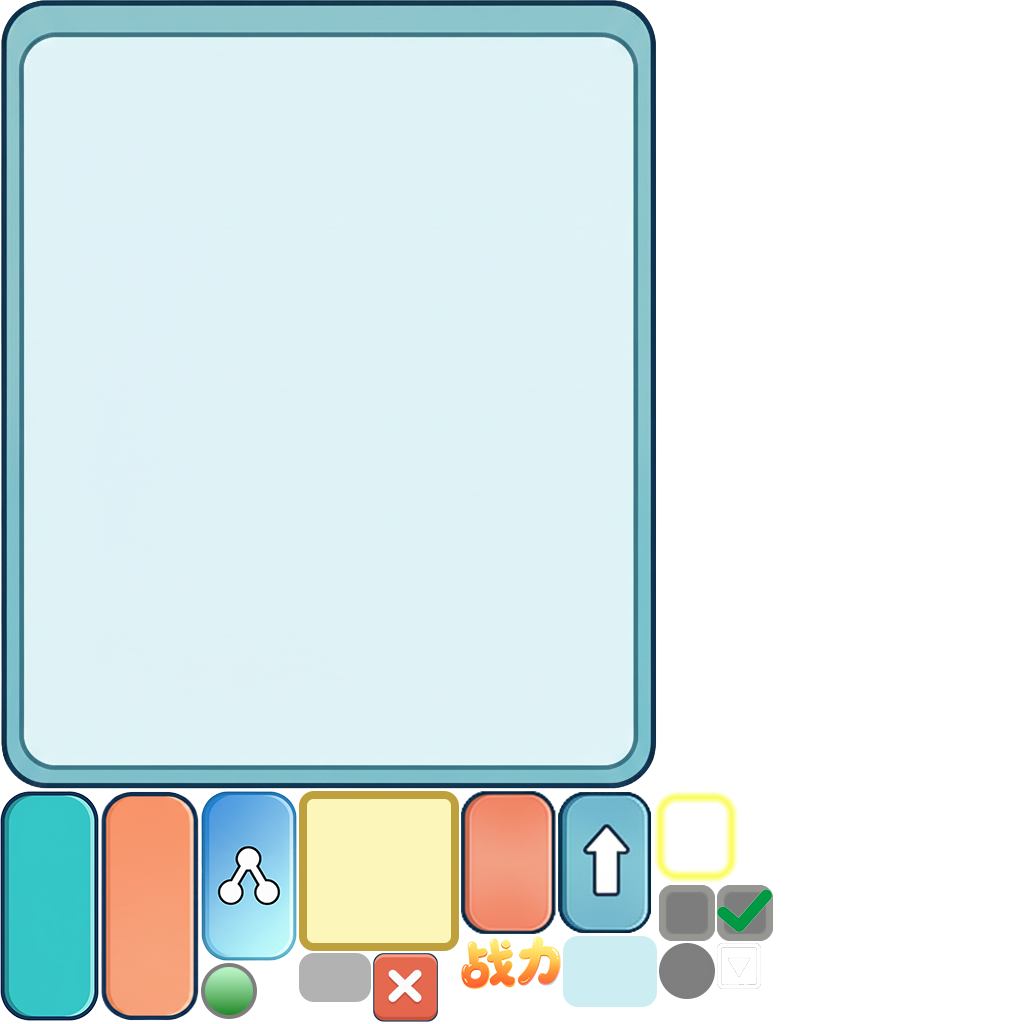
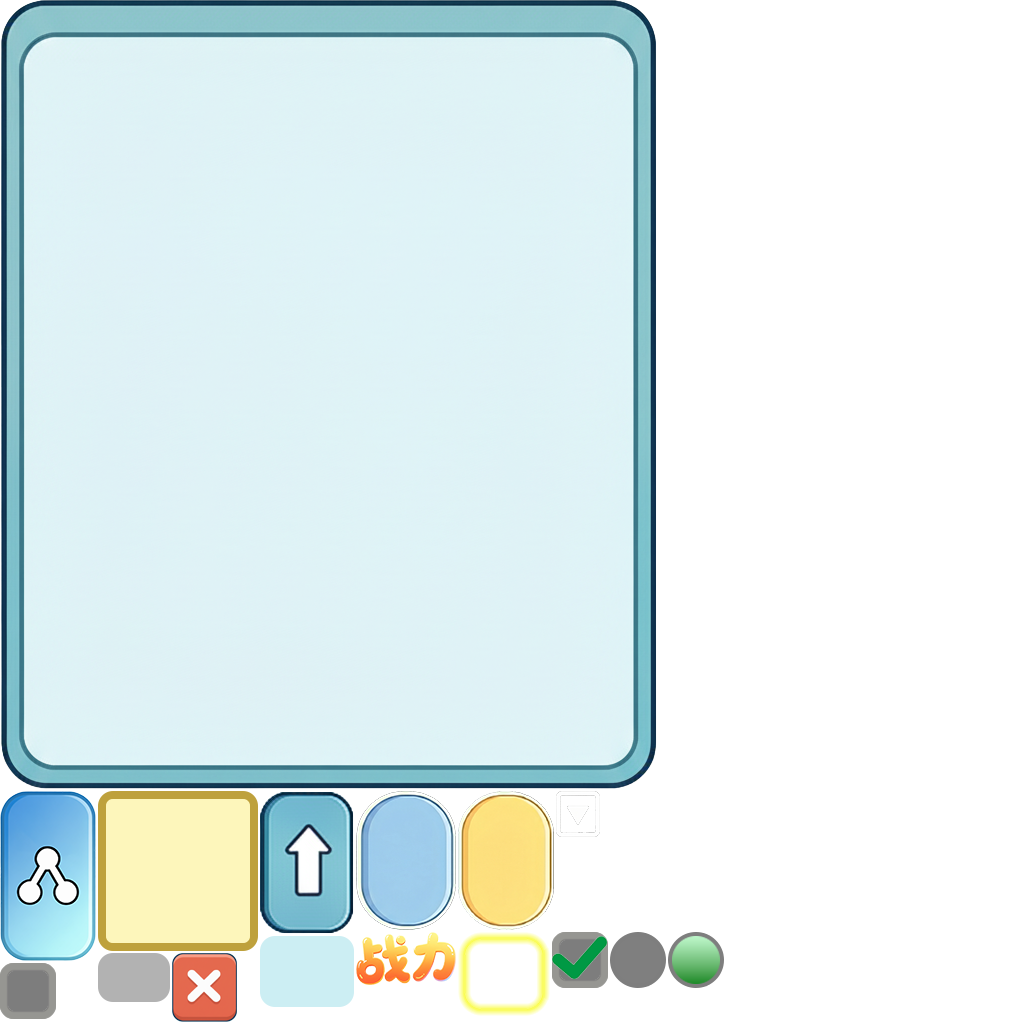
refactor(fgui): 优化按钮组件及弹窗组件实现
- 删除自动生成的 FGUICompBtnScale 类及相关引用
- 弹窗组件中取消对 FGUICompBtnScale 的依赖，改为使用基础的 fgui.GButton
- 修正 CompPopMessage 组件按钮控制器默认选中状态
- 更新 CompPopMessage 中按钮图标及位置配置
- 移除不再使用的图片资源 btn1.png、btn2.png、disband.png
- 新增 btnBule.png、btnGreen.png、btnYellow.png 资源并引用
- 清理 package.xml 中相关资源声明，保持资源声明一致性

Changed region(s): [[0.0, 0.75, 0.7812, 1.0]]

diff --git a/assets/scripts/fgui/common/FGUICompPopMessage.ts b/assets/scripts/fgui/common/FGUICompPopMessage.ts
@@ -2,7 +2,6 @@
 
 import { assetManager, AssetManager } from "cc";
 import * as fgui from "fairygui-cc";
-import FGUICompBtnScale from "./FGUICompBtnScale";
 
 import { PackageManager } from "@frameworks/PackageManager";
 import { Logger } from "@frameworks/utils/Utils";
@@ -11,8 +10,8 @@ export default class FGUICompPopMessage extends fgui.GComponent {
 
 	public ctrl_btn_type:fgui.Controller;
 	public UI_BTN_CLOSE:fgui.GButton;
-	public UI_BTN_SURE:FGUICompBtnScale;
-	public UI_BTN_CANCEL:FGUICompBtnScale;
+	public UI_BTN_SURE:fgui.GButton;
+	public UI_BTN_CANCEL:fgui.GButton;
 	public UI_TXT_TITLE:fgui.GTextField;
 	public UI_TXT_CONTENT:fgui.GTextField;
 	public static URL:string = "ui://gj0r6g5imuz3g";
@@ -58,9 +57,9 @@ export default class FGUICompPopMessage extends fgui.GComponent {
 		this.ctrl_btn_type = this.getControllerAt(0);
 		this.UI_BTN_CLOSE = <fgui.GButton>(this.getChildAt(1));
 		this.UI_BTN_CLOSE.onClick(this.onBtnClose, this);
-		this.UI_BTN_SURE = <FGUICompBtnScale>(this.getChildAt(2));
+		this.UI_BTN_SURE = <fgui.GButton>(this.getChildAt(2));
 		this.UI_BTN_SURE.onClick(this.onBtnSure, this);
-		this.UI_BTN_CANCEL = <FGUICompBtnScale>(this.getChildAt(3));
+		this.UI_BTN_CANCEL = <fgui.GButton>(this.getChildAt(3));
 		this.UI_BTN_CANCEL.onClick(this.onBtnCancel, this);
 		this.UI_TXT_TITLE = <fgui.GTextField>(this.getChildAt(4));
 		this.UI_TXT_CONTENT = <fgui.GTextField>(this.getChildAt(5));
